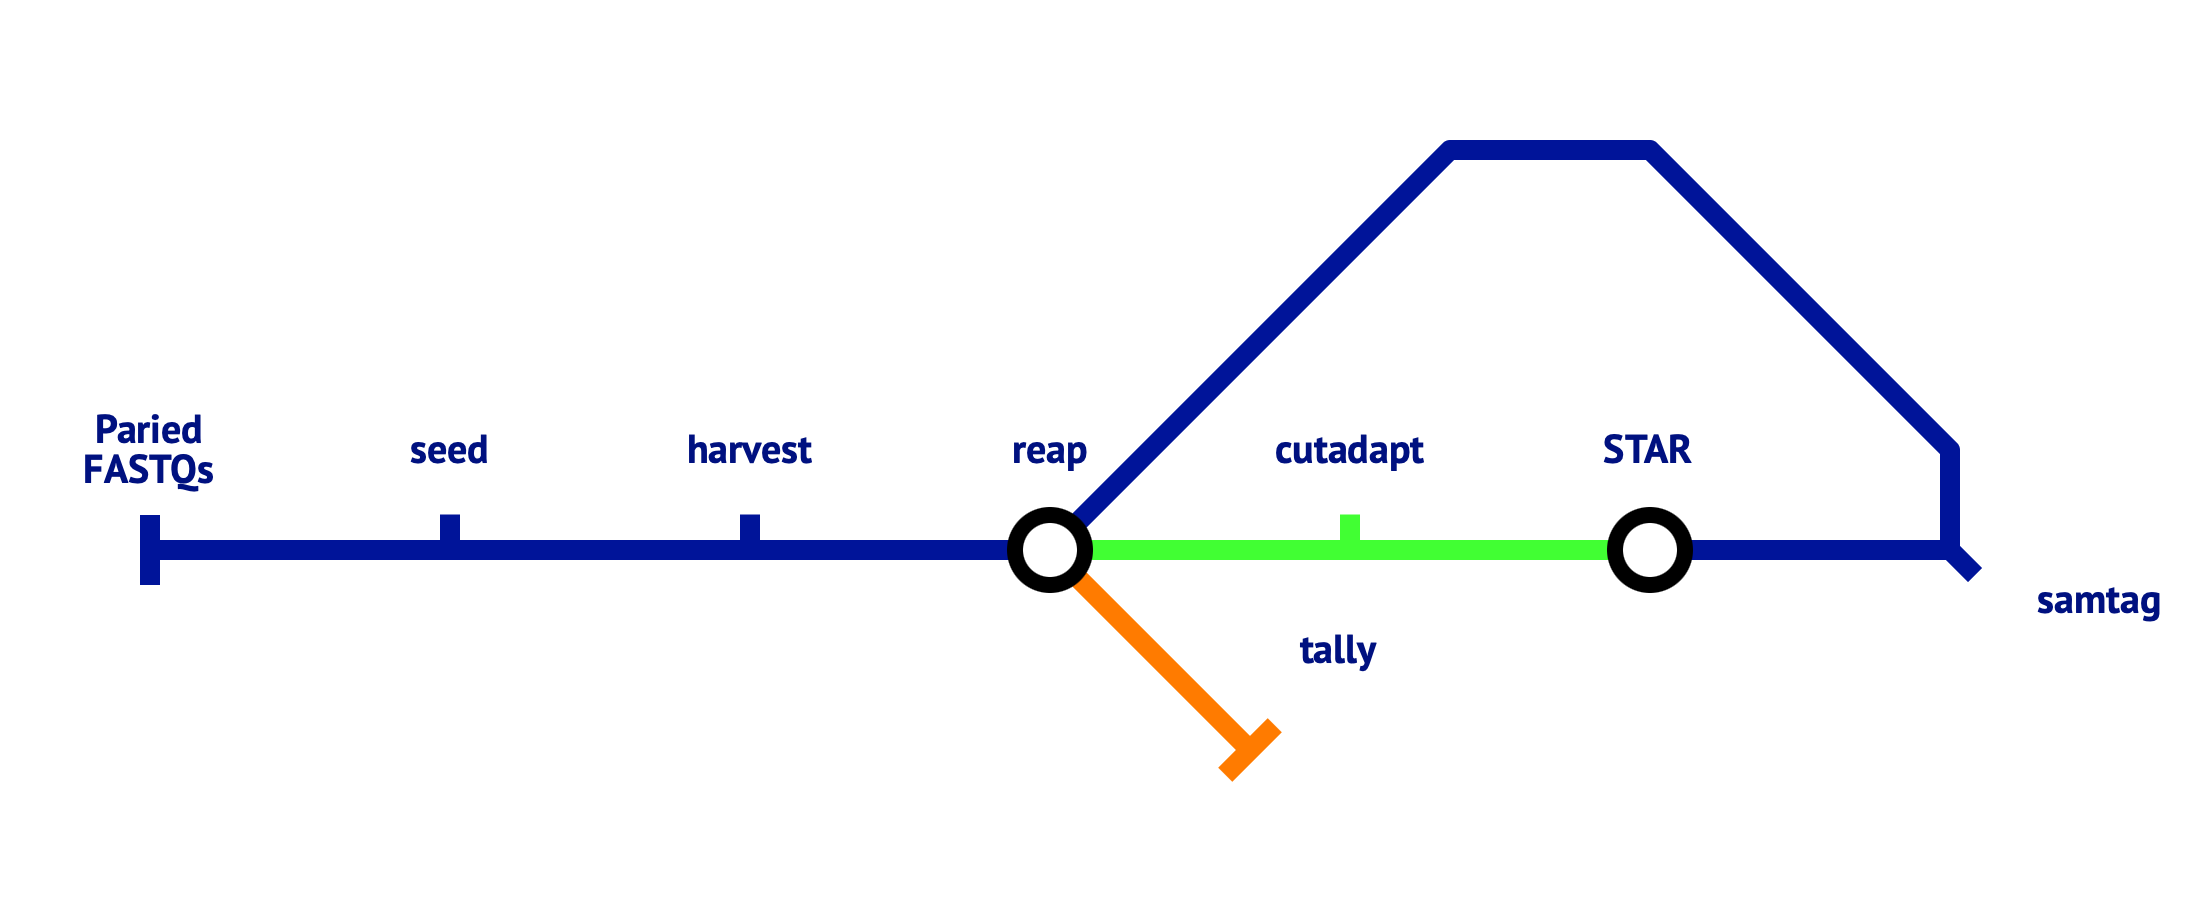
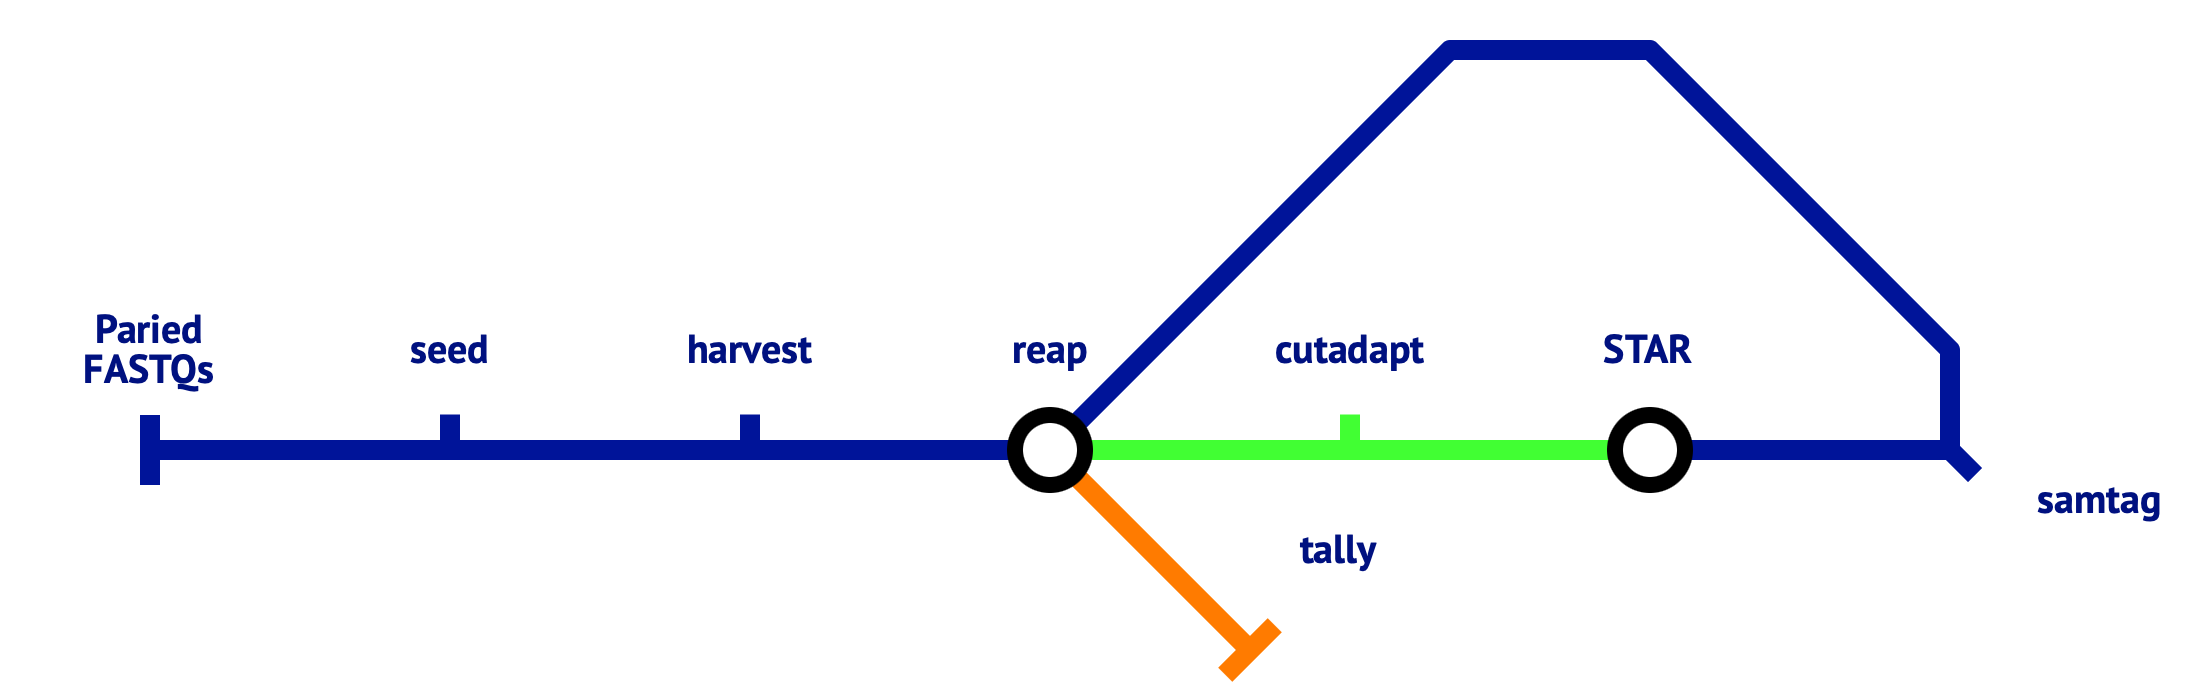
Edited documentation

diff --git a/docs/workflow.md b/docs/workflow.md
@@ -4,4 +4,4 @@
 
 # Workflow
 
-<img style="float:right;width:200px;" src="../img/tubemap.png" alt="workflow tube map"/>
+<img style="float:right;width:100%" src="../img/tubemap.png" alt="workflow tube map"/>
